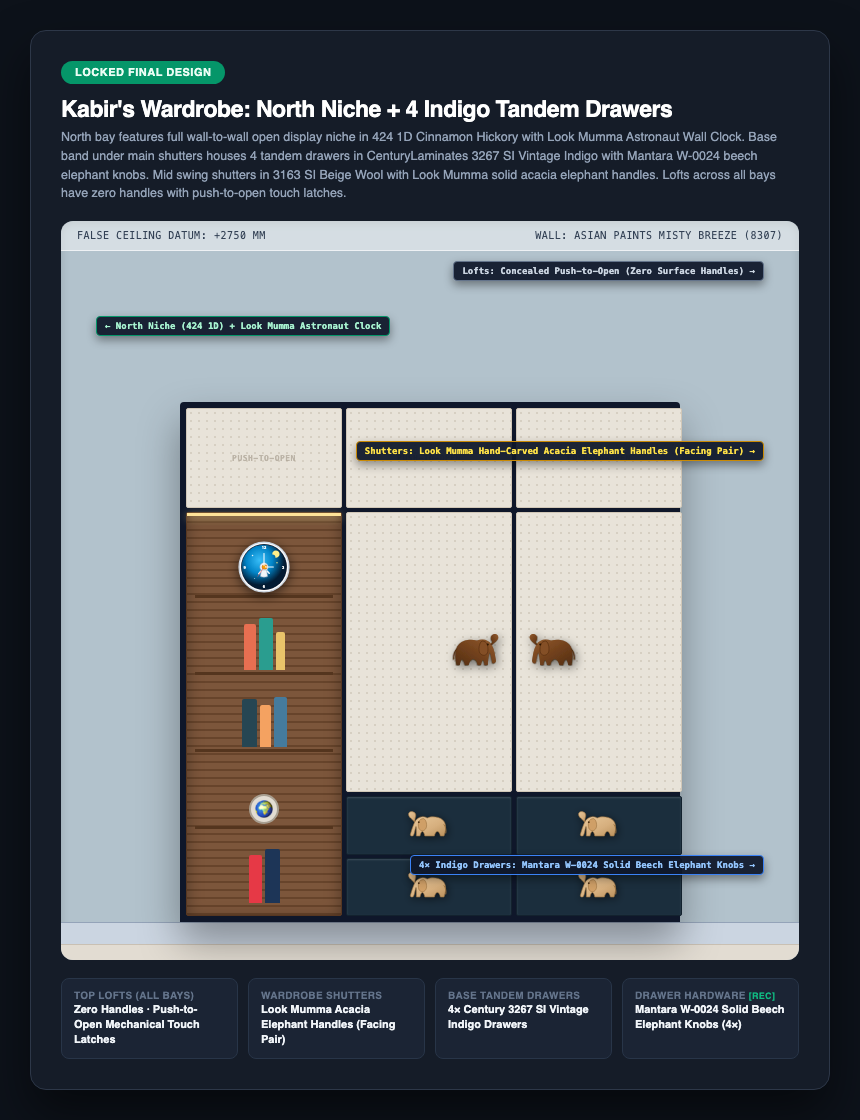
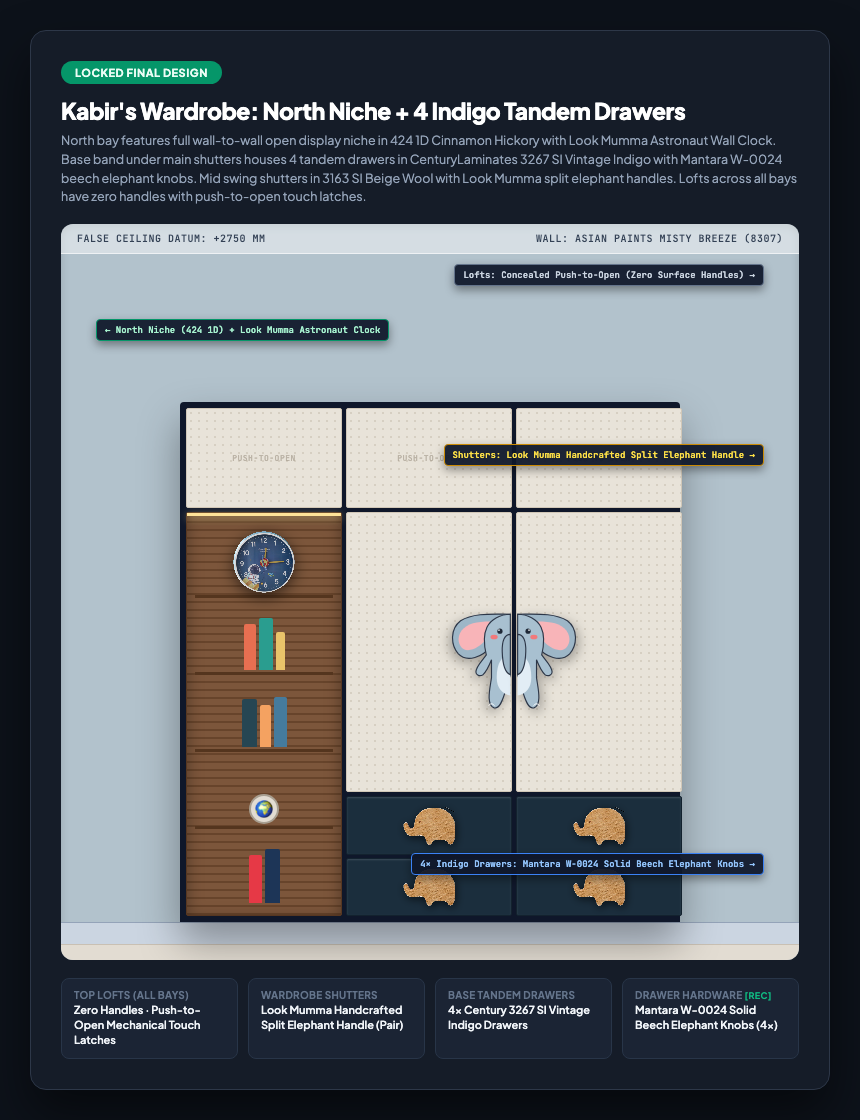
sync: update Project U notes (2026-11-06 22:55:36)

diff --git a/content/rooms/kabir-room.md b/content/rooms/kabir-room.md
@@ -20,17 +20,17 @@ Dedicated study, reading, and creative play space for Kabir (age 6, Grade 1 at K
 
 ## Kabir's Room Hardware & Furnishings
 
-| Need                                              | Tier 1: High-Quality VFM                                                                                                                                                                                                                                                                                                                                                                                                                                                                                                                                                                    | Tier 2: High-Quality Unconstrained                                                                                                                                                                                                                                                                                                                                                        | Top Failure Mode & Reddit Insight                                                                                                                                                                                                                |
-| :------------------------------------------------ | :------------------------------------------------------------------------------------------------------------------------------------------------------------------------------------------------------------------------------------------------------------------------------------------------------------------------------------------------------------------------------------------------------------------------------------------------------------------------------------------------------------------------------------------------------------------------------------------ | :---------------------------------------------------------------------------------------------------------------------------------------------------------------------------------------------------------------------------------------------------------------------------------------------------------------------------------------------------------------------------------------- | :----------------------------------------------------------------------------------------------------------------------------------------------------------------------------------------------------------------------------------------------- |
+| Need                                              | Tier 1: High-Quality VFM                                                                                                                                                                                                                                                                                                                                                                                                                                                                                                                                                                                                                                                                                             | Tier 2: High-Quality Unconstrained                                                                                                                                                                                                                                                                                                                                                        | Top Failure Mode & Reddit Insight                                                                                                                                                                                                                |
+| :------------------------------------------------ | :------------------------------------------------------------------------------------------------------------------------------------------------------------------------------------------------------------------------------------------------------------------------------------------------------------------------------------------------------------------------------------------------------------------------------------------------------------------------------------------------------------------------------------------------------------------------------------------------------------------------------------------------------------------------------------------------------------------- | :---------------------------------------------------------------------------------------------------------------------------------------------------------------------------------------------------------------------------------------------------------------------------------------------------------------------------------------------------------------------------------------- | :----------------------------------------------------------------------------------------------------------------------------------------------------------------------------------------------------------------------------------------------- |
 | **KBR Wardrobe (Homz Locked)**                    | **[Recommended]** **Locked Design: North Niche + Indigo Tandem Drawers:** Entire wardrobe and lofts in CenturyLaminates `3163 SI Beige Wool`; leftmost (North) bay features full wall-to-wall open `424 1D Cinnamon Hickory` display niche beside study desk (bottom drawers removed) housing the Look Mumma Astronaut Wall Clock; base band under wardrobe shutters houses 4 tandem drawers in CenturyLaminates `3267 SI Vintage Indigo` (scuff protection) with Mantara W-0024 solid beech elephant knobs; upper mid swing shutters fitted with Look Mumma solid acacia elephant handles; top lofts across all bays strictly omit surface handles and operate via concealed mechanical push-to-open touch latches. | [Greenlam AFX Neutral + Solid Woodgrain Niche + FENIX](https://www.google.com/search?q=Greenlam+AFX+Neutral+%2B+Oak+Niche+%2B+FENIX) (Century Club Prime, Blum BLUMOTION soft-close channels, ~₹1.85L) / [Merino Luvih Super-Matt + Blum LEGRABOX](https://www.google.com/search?q=Merino+Luvih+Super-Matt+%2B+Blum+LEGRABOX) (Finger-safe soft-close dampers, ~₹1.75L)                   | Cartoon laminates date poorly by age 9; grounding the base in scuff-resistant `3267 SI` Vintage Indigo protects against kicks while `3163 SI` Beige Wool maintains whole-house Japandi continuity and single-brand Century procurement.          |
-| **Child Daybed / Sleeper**                        | [Orange Tree / Spin Solid Hardwood Daybed with Trundle](https://www.google.com/search?q=Orange+Tree+Solid+Wood+Daybed+with+Trundle) (Kiln-dried solid wood, `36×75 in` full single mattress + trundle, ~₹48,000) / [IKEA HEMNES Day-Bed Frame with 3 Drawers](https://www.ikea.com/in/en/p/hemnes-day-bed-frame-with-3-drawers-white-70349327/) (₹36,990)                                                                                                                                                                                                                                   | **[Recommended]** [Alankaram Junior Solid Teak Daybed with Trundle](https://www.google.com/search?q=Alankaram+Junior+Teak+Daybed+with+Trundle) (Solid seasoned teak, `36×75 in` full single mattress sizing for age 6–12 sleep transition, rounded child-safe bullnose edges, pull-out trundle, ₹72,000)                                                                                  | Reject `Boingg!` (uses 18mm MDF/HDF and pine, not teak) and `IKEA BRIMNES` (particleboard slats snap under child jumping). Full `36×75 in` single mattress sizing allows an adult to lie comfortably beside Kabir during his age 7–9 transition. |
-| **Kids Reading Pouffe / Sleeper**                 | **[Recommended]** [IKEA KOMPISHÄNG Mattress/Pouffe (80×200 cm)](https://www.ikea.com/in/en/p/kompishaeng-mattress-pouffe-beige-red-60628767/) (13 cm pocket springs, tri-fold pouffe 80×68 cm, ₹12,990) / [IKEA SLÄKT Folding Mattress](https://www.ikea.com/in/en/p/slaekt-folding-mattress-grey-90362964/) (Pouf/floor bed, washable cover, 62×193 cm, ₹8,990)                                                                                                                                                                                                                            | [BoConcept Xtra Footstool with Sleeping Function](https://www.boconcept.com/en-in/p/xtra/603030-603011.html) (70×70 cm Danish ottoman, concealed steel folding frame, 70×200 cm raised bed, ₹85,950) / [Karup Design Hippo Chair-Futon](https://www.google.com/search?q=Karup+Design+Hippo+Chair-Futon) (Danish Japandi design, folds from low armchair to 90×200 cm floor bed, ~₹48,000) | KOMPISHÄNG sleeps on floor at 1/7th price; BoConcept lifts sleeper 42cm off tile on steel frame in bespoke Danish upholstery, but requires adult to unfold (24 kg).                                                                              |
-| **Ergonomic Study Desk**                          | **[Recommended]** [IKEA BERGLÄRKA Tiltable Desk](https://www.google.com/search?q=IKEA+BERGL%C3%84RKA+Tiltable+Desk) (Manual crank 52–75cm, tiltable top, EN 17191 child-safe, ₹14,990) / [IKEA PIPLÄRKA Adjustable Desk](https://www.ikea.com/in/en/p/piplaerka-desk-tiltable-white-50530752/) (50–74 cm height in 5 steps, compact 80×63 cm, ₹7,990)                                                                                                                                                                                                                                       | [Moll Champion Ergonomic Children Desk](https://moll-funktion.com/en/product/champion/) (German precision gas lift, split tilt desk top, ~₹85,000) / [Moll Winner Compact Children Desk](https://moll-funktion.com/en/product/winner/) (10-position manual tilt, adjustable 53–82 cm, cable duct, ~₹68,000)                                                                               | Motorized sit-stand desks have high minimum heights ($\ge 62\text{ cm}$) and pinch hazards; manual child-certified desks drop to 52 cm.                                                                                                          |
-| **Growth Desk Chair**                             | **[Recommended]** [IKEA LOBERGET / SIBBEN Children Desk Chair](https://www.ikea.com/in/en/p/loberget-sibben-childrens-desk-chair-white-s79337746/) (Adjustable seat height 32–43 cm, zero rolling wheels, ₹2,490) + [Ergonomic Footrest Cushion](https://www.amazon.in/dp/B08L6XB7WN) (₹1,499)                                                                                                                                                                                                                                                                                              | **[Recommended Growth]** [IKEA VIMUND Children Ergonomic Chair](https://www.ikea.com/in/en/p/vimund-childrens-desk-chair-bright-turquoise-30424352/) (Pressure-sensitive auto-locking brake castors, adjustable seat depth & back, ₹6,990) / [Moll Maximo 15](https://moll-funktion.com/en/product/maximo/) (~₹45,000)                                                                    | Free-rolling swivel chairs turn into toys during homework; VIMUND pressure-sensitive castors lock automatically when seated. Ensure feet rest flat on floor or footrest.                                                                         |
-| **South Wall 3D World Map**                       | **[Recommended]** [Woodsify 3D Wooden World Map Multicolor (Non-LED, Size L)](https://www.woodsify.com/products/3d-wooden-world-map-multicolour?variant=42093391315150) (150×90 cm, birch plywood, ₹9,540) / [WoodScape 3D Multilayer Birch Map](https://www.google.com/search?q=WoodScape+3D+Multilayer+Birch+Map) (140×85 cm, natural wood stains, ₹8,990)                                                                                                                                                                                                                                | [Enjoy The Wood 3D Birch Map with Push Pins](https://enjoythewood.com/products/3d-wooden-world-map-multicolor) (~$249 / ₹21,000, non-toxic stains, flag pins) / [MiMi Innovations 3D Solid Hardwood Topographic World Map](https://www.google.com/search?q=MiMi+Innovations+3D+Hardwood+Topographic+World+Map) (Hand-stained oak/walnut relief, ~₹26,000)                                 | Direct adhesive tape ruins paint during removal; mount onto 6mm BWP ply backer board with French cleats. Detail in [[art-wall-decor]].                                                                                                           |
-| **Wardrobe Shutter Handles (Acacia Elephant)**    | **[Recommended]** [Look Mumma Hand-Carved Acacia Elephant Handles](https://www.amazon.in/Look-Mumma-Elephant-Premium-Cupboard/dp/B0FJFXNG7K/) (Natural waxed solid acacia wood, 96mm CC / 120×95mm, through-bolted with M4 machine screws into 18mm BWP ply, ₹1,450 / pair) / [Pinch of Pretty Wood Pulls](https://pinchofpretty.com) (~₹2,999)                                                                                                                                                                                                                                             | [Homz Bespoke Hand-Carved Teak Elephant Pulls](https://www.google.com/search?q=Hand-Carved+Teak+Elephant+Bar+Pulls) (Crafted from CP teak offcuts, ~₹1,600 labor)                                                                                                                                                                                                                         | Soft pine/MDF decorative handles split under child pulling force; solid acacia handles through-bolted with M4 machine bolts into 18mm BWP ply will never pull out.                                                                               |
-| **Wardrobe Tandem Drawer Knobs (Beech Elephant)** | **[Recommended]** [Mantara W-0024 Elephant Knob](https://www.mantara.in/products/mantara-w-0024-elephant) (Solid natural beech wood, 50mm single-point knob with brass threaded insert, ₹649 ea, 4 units)                                                                                                                                                                                                                                                                                                                                                                                   | [Mantara Safari Animal Knobs Collection](https://www.mantara.in) (Solid turned wood, brass insert, ~₹750 ea) / [Häfele Zinc Animal Knobs](https://www.hafeleindia.com) (~₹450 ea)                                                                                                                                                                                                         | Drawers endure higher pull frequencies than tall shutters; solid beech wood with factory brass inserts prevents thread stripping under rapid yank loads.                                                                                         |
-| **Study Wall Clock (Analog Learning)**            | **[Recommended]** [Look Mumma Whimsical Astronaut Outer Space Wall Clock](https://lookmumma.com/products/whimsical-astronaut-outer-space-wall-clock) (10" silent sweep quartz, bold Arabic numerals, cosmic outer space motif, ₹899) / [IKEA TJINGA Wall Clock](https://www.ikea.com/in/en/p/tjinga-wall-clock-white-30541484/) (Silent quartz, ₹199)                                                                                                                                                                                                                                       | [Seiko Kids Learning Wall Clock](https://www.google.com/search?q=Seiko+Kids+Learning+Wall+Clock) (Silent sweep, color-coded hour/minute hands, ₹3,200) / [Lemnos Fun Pun Education Clock](https://www.google.com/search?q=Lemnos+Fun+Pun+Clock) (Japanese pedagogical design, ~$110 / ₹9,200)                                                                                             | Stepping-quartz mechanisms disturb child sleep in quiet bedrooms; mandate continuous silent-sweep movements. High-contrast Arabic numerals foster early analog time-reading literacy.                                                            |
+| **Child Daybed / Sleeper**                        | [Orange Tree / Spin Solid Hardwood Daybed with Trundle](https://www.google.com/search?q=Orange+Tree+Solid+Wood+Daybed+with+Trundle) (Kiln-dried solid wood, `36×75 in` full single mattress + trundle, ~₹48,000) / [IKEA HEMNES Day-Bed Frame with 3 Drawers](https://www.ikea.com/in/en/p/hemnes-day-bed-frame-with-3-drawers-white-70349327/) (₹36,990)                                                                                                                                                                                                                                                                                                                                                            | **[Recommended]** [Alankaram Junior Solid Teak Daybed with Trundle](https://www.google.com/search?q=Alankaram+Junior+Teak+Daybed+with+Trundle) (Solid seasoned teak, `36×75 in` full single mattress sizing for age 6–12 sleep transition, rounded child-safe bullnose edges, pull-out trundle, ₹72,000)                                                                                  | Reject `Boingg!` (uses 18mm MDF/HDF and pine, not teak) and `IKEA BRIMNES` (particleboard slats snap under child jumping). Full `36×75 in` single mattress sizing allows an adult to lie comfortably beside Kabir during his age 7–9 transition. |
+| **Kids Reading Pouffe / Sleeper**                 | **[Recommended]** [IKEA KOMPISHÄNG Mattress/Pouffe (80×200 cm)](https://www.ikea.com/in/en/p/kompishaeng-mattress-pouffe-beige-red-60628767/) (13 cm pocket springs, tri-fold pouffe 80×68 cm, ₹12,990) / [IKEA SLÄKT Folding Mattress](https://www.ikea.com/in/en/p/slaekt-folding-mattress-grey-90362964/) (Pouf/floor bed, washable cover, 62×193 cm, ₹8,990)                                                                                                                                                                                                                                                                                                                                                     | [BoConcept Xtra Footstool with Sleeping Function](https://www.boconcept.com/en-in/p/xtra/603030-603011.html) (70×70 cm Danish ottoman, concealed steel folding frame, 70×200 cm raised bed, ₹85,950) / [Karup Design Hippo Chair-Futon](https://www.google.com/search?q=Karup+Design+Hippo+Chair-Futon) (Danish Japandi design, folds from low armchair to 90×200 cm floor bed, ~₹48,000) | KOMPISHÄNG sleeps on floor at 1/7th price; BoConcept lifts sleeper 42cm off tile on steel frame in bespoke Danish upholstery, but requires adult to unfold (24 kg).                                                                              |
+| **Ergonomic Study Desk**                          | **[Recommended]** [IKEA BERGLÄRKA Tiltable Desk](https://www.google.com/search?q=IKEA+BERGL%C3%84RKA+Tiltable+Desk) (Manual crank 52–75cm, tiltable top, EN 17191 child-safe, ₹14,990) / [IKEA PIPLÄRKA Adjustable Desk](https://www.ikea.com/in/en/p/piplaerka-desk-tiltable-white-50530752/) (50–74 cm height in 5 steps, compact 80×63 cm, ₹7,990)                                                                                                                                                                                                                                                                                                                                                                | [Moll Champion Ergonomic Children Desk](https://moll-funktion.com/en/product/champion/) (German precision gas lift, split tilt desk top, ~₹85,000) / [Moll Winner Compact Children Desk](https://moll-funktion.com/en/product/winner/) (10-position manual tilt, adjustable 53–82 cm, cable duct, ~₹68,000)                                                                               | Motorized sit-stand desks have high minimum heights ($\ge 62\text{ cm}$) and pinch hazards; manual child-certified desks drop to 52 cm.                                                                                                          |
+| **Growth Desk Chair**                             | **[Recommended]** [IKEA LOBERGET / SIBBEN Children Desk Chair](https://www.ikea.com/in/en/p/loberget-sibben-childrens-desk-chair-white-s79337746/) (Adjustable seat height 32–43 cm, zero rolling wheels, ₹2,490) + [Ergonomic Footrest Cushion](https://www.amazon.in/dp/B08L6XB7WN) (₹1,499)                                                                                                                                                                                                                                                                                                                                                                                                                       | **[Recommended Growth]** [IKEA VIMUND Children Ergonomic Chair](https://www.ikea.com/in/en/p/vimund-childrens-desk-chair-bright-turquoise-30424352/) (Pressure-sensitive auto-locking brake castors, adjustable seat depth & back, ₹6,990) / [Moll Maximo 15](https://moll-funktion.com/en/product/maximo/) (~₹45,000)                                                                    | Free-rolling swivel chairs turn into toys during homework; VIMUND pressure-sensitive castors lock automatically when seated. Ensure feet rest flat on floor or footrest.                                                                         |
+| **South Wall 3D World Map**                       | **[Recommended]** [Woodsify 3D Wooden World Map Multicolor (Non-LED, Size L)](https://www.woodsify.com/products/3d-wooden-world-map-multicolour?variant=42093391315150) (150×90 cm, birch plywood, ₹9,540) / [WoodScape 3D Multilayer Birch Map](https://www.google.com/search?q=WoodScape+3D+Multilayer+Birch+Map) (140×85 cm, natural wood stains, ₹8,990)                                                                                                                                                                                                                                                                                                                                                         | [Enjoy The Wood 3D Birch Map with Push Pins](https://enjoythewood.com/products/3d-wooden-world-map-multicolor) (~$249 / ₹21,000, non-toxic stains, flag pins) / [MiMi Innovations 3D Solid Hardwood Topographic World Map](https://www.google.com/search?q=MiMi+Innovations+3D+Hardwood+Topographic+World+Map) (Hand-stained oak/walnut relief, ~₹26,000)                                 | Direct adhesive tape ruins paint during removal; mount onto 6mm BWP ply backer board with French cleats. Detail in [[art-wall-decor]].                                                                                                           |
+| **Wardrobe Shutter Handles (Acacia Elephant)**    | **[Recommended]** [Look Mumma Hand-Carved Acacia Elephant Handles](https://www.amazon.in/Look-Mumma-Elephant-Premium-Cupboard/dp/B0FJFXNG7K/) (Natural waxed solid acacia wood, 96mm CC / 120×95mm, through-bolted with M4 machine screws into 18mm BWP ply, ₹1,450 / pair) / [Pinch of Pretty Wood Pulls](https://pinchofpretty.com) (~₹2,999)                                                                                                                                                                                                                                                                                                                                                                      | [Homz Bespoke Hand-Carved Teak Elephant Pulls](https://www.google.com/search?q=Hand-Carved+Teak+Elephant+Bar+Pulls) (Crafted from CP teak offcuts, ~₹1,600 labor)                                                                                                                                                                                                                         | Soft pine/MDF decorative handles split under child pulling force; solid acacia handles through-bolted with M4 machine bolts into 18mm BWP ply will never pull out.                                                                               |
+| **Wardrobe Tandem Drawer Knobs (Beech Elephant)** | **[Recommended]** [Mantara W-0024 Elephant Knob](https://www.mantara.in/products/mantara-w-0024-elephant) (Solid natural beech wood, 50mm single-point knob with brass threaded insert, ₹649 ea, 4 units)                                                                                                                                                                                                                                                                                                                                                                                                                                                                                                            | [Mantara Safari Animal Knobs Collection](https://www.mantara.in) (Solid turned wood, brass insert, ~₹750 ea) / [Häfele Zinc Animal Knobs](https://www.hafeleindia.com) (~₹450 ea)                                                                                                                                                                                                         | Drawers endure higher pull frequencies than tall shutters; solid beech wood with factory brass inserts prevents thread stripping under rapid yank loads.                                                                                         |
+| **Study Wall Clock (Analog Learning)**            | **[Recommended]** [Look Mumma Whimsical Astronaut Outer Space Wall Clock](https://lookmumma.com/products/whimsical-astronaut-outer-space-wall-clock) (10" silent sweep quartz, bold Arabic numerals, cosmic outer space motif, ₹899) / [IKEA TJINGA Wall Clock](https://www.ikea.com/in/en/p/tjinga-wall-clock-white-30541484/) (Silent quartz, ₹199)                                                                                                                                                                                                                                                                                                                                                                | [Seiko Kids Learning Wall Clock](https://www.google.com/search?q=Seiko+Kids+Learning+Wall+Clock) (Silent sweep, color-coded hour/minute hands, ₹3,200) / [Lemnos Fun Pun Education Clock](https://www.google.com/search?q=Lemnos+Fun+Pun+Clock) (Japanese pedagogical design, ~$110 / ₹9,200)                                                                                             | Stepping-quartz mechanisms disturb child sleep in quiet bedrooms; mandate continuous silent-sweep movements. High-contrast Arabic numerals foster early analog time-reading literacy.                                                            |
 
 ---
 
